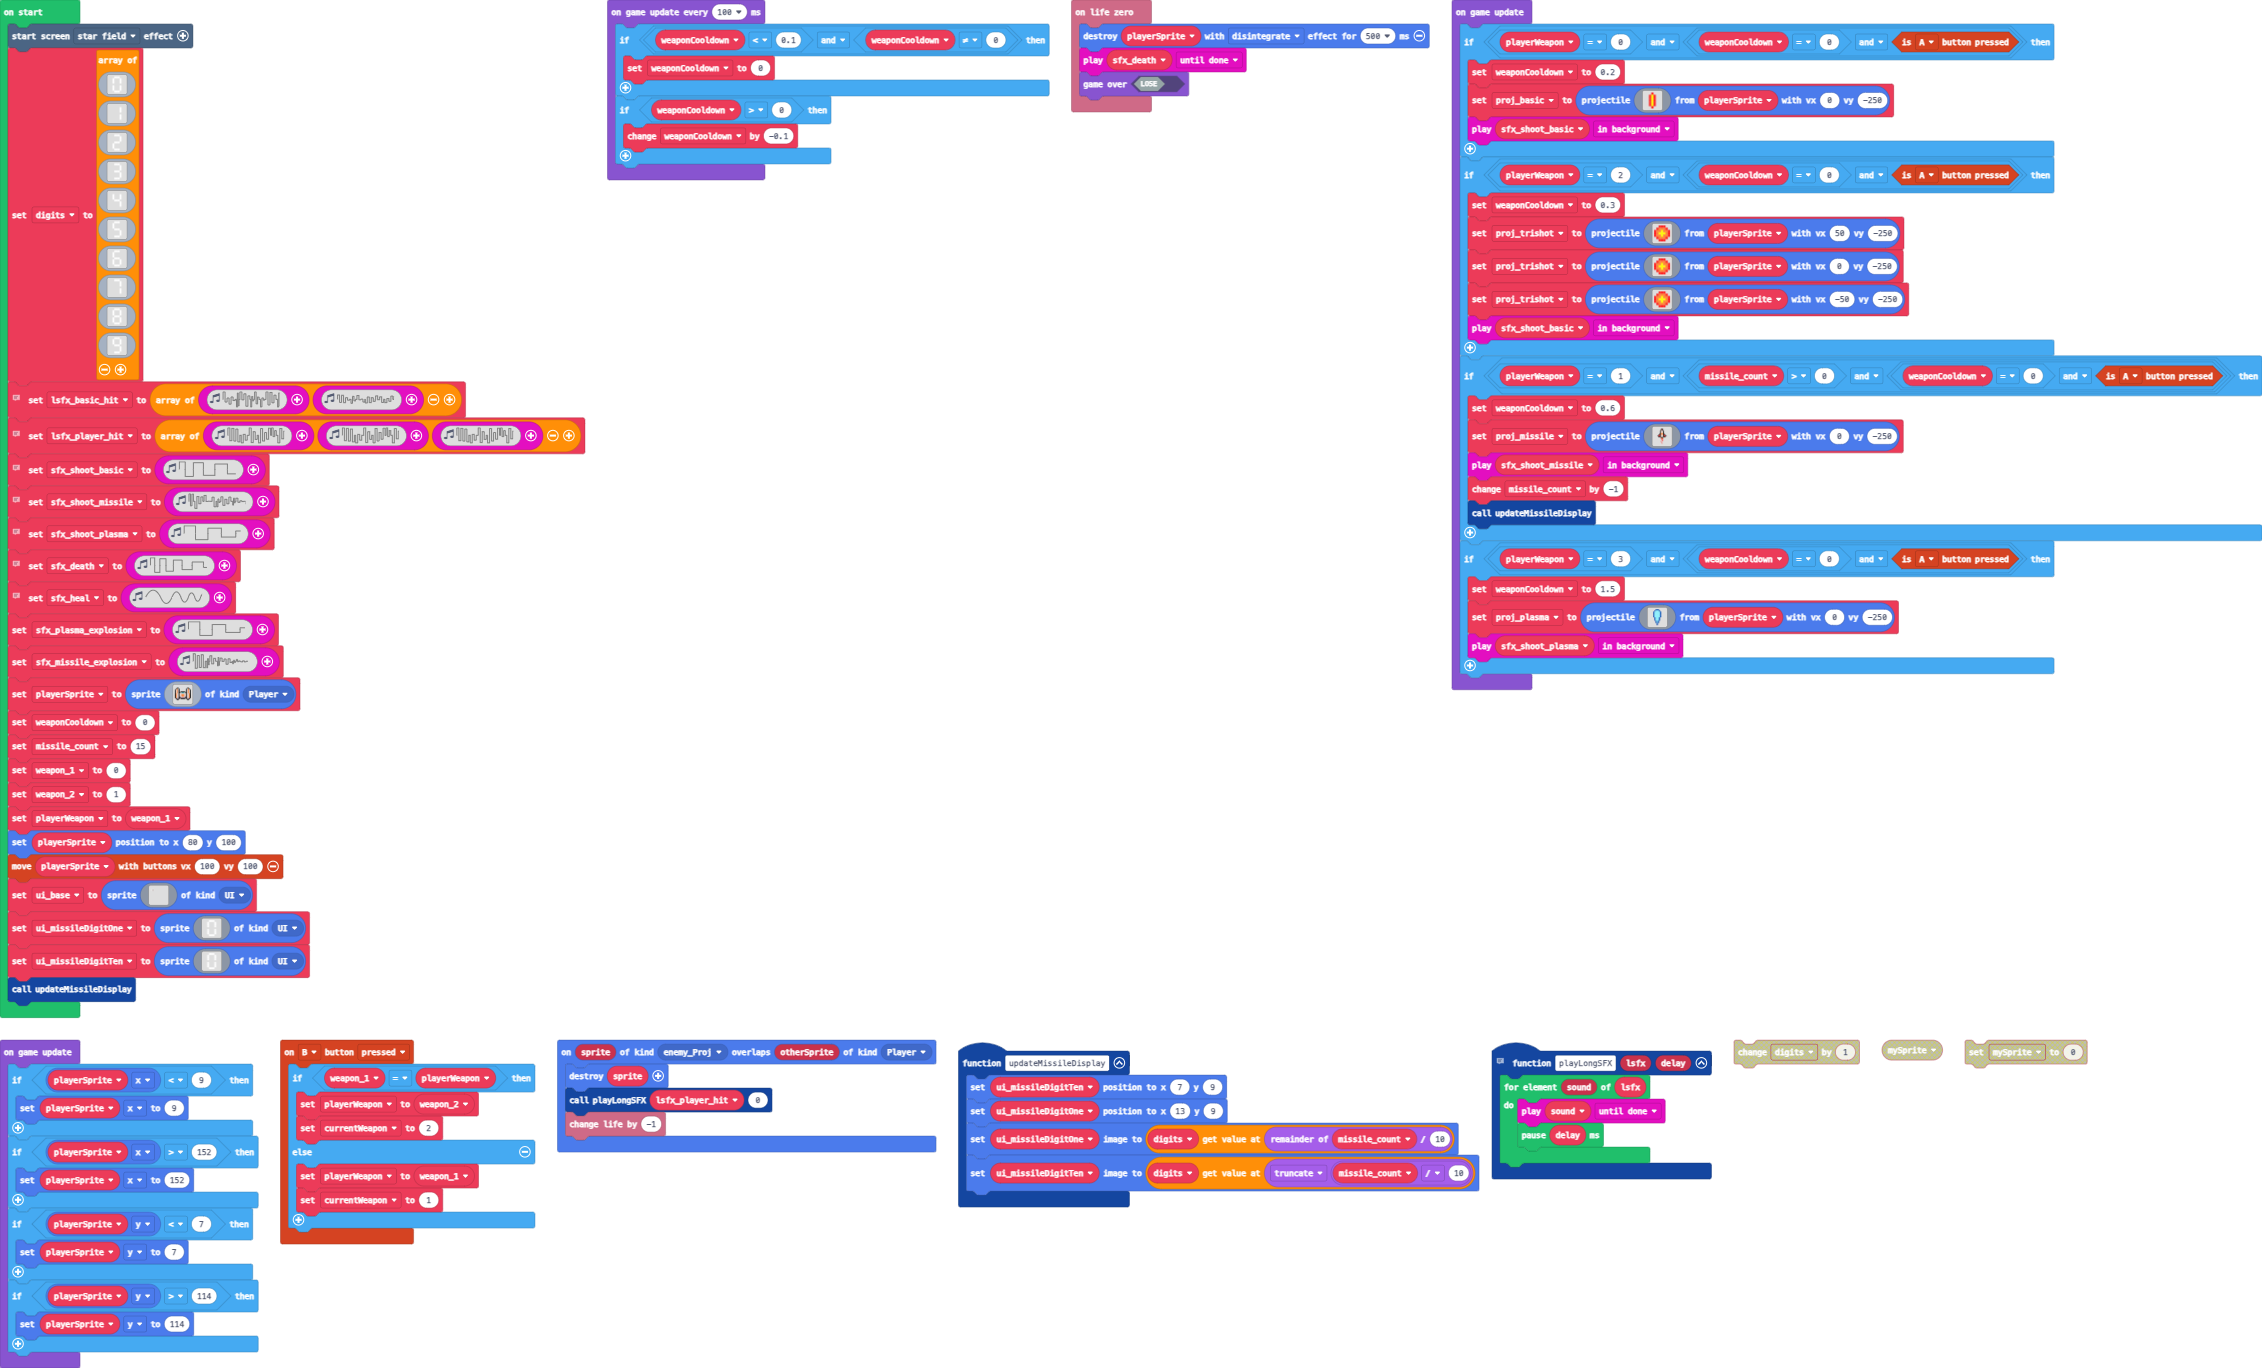
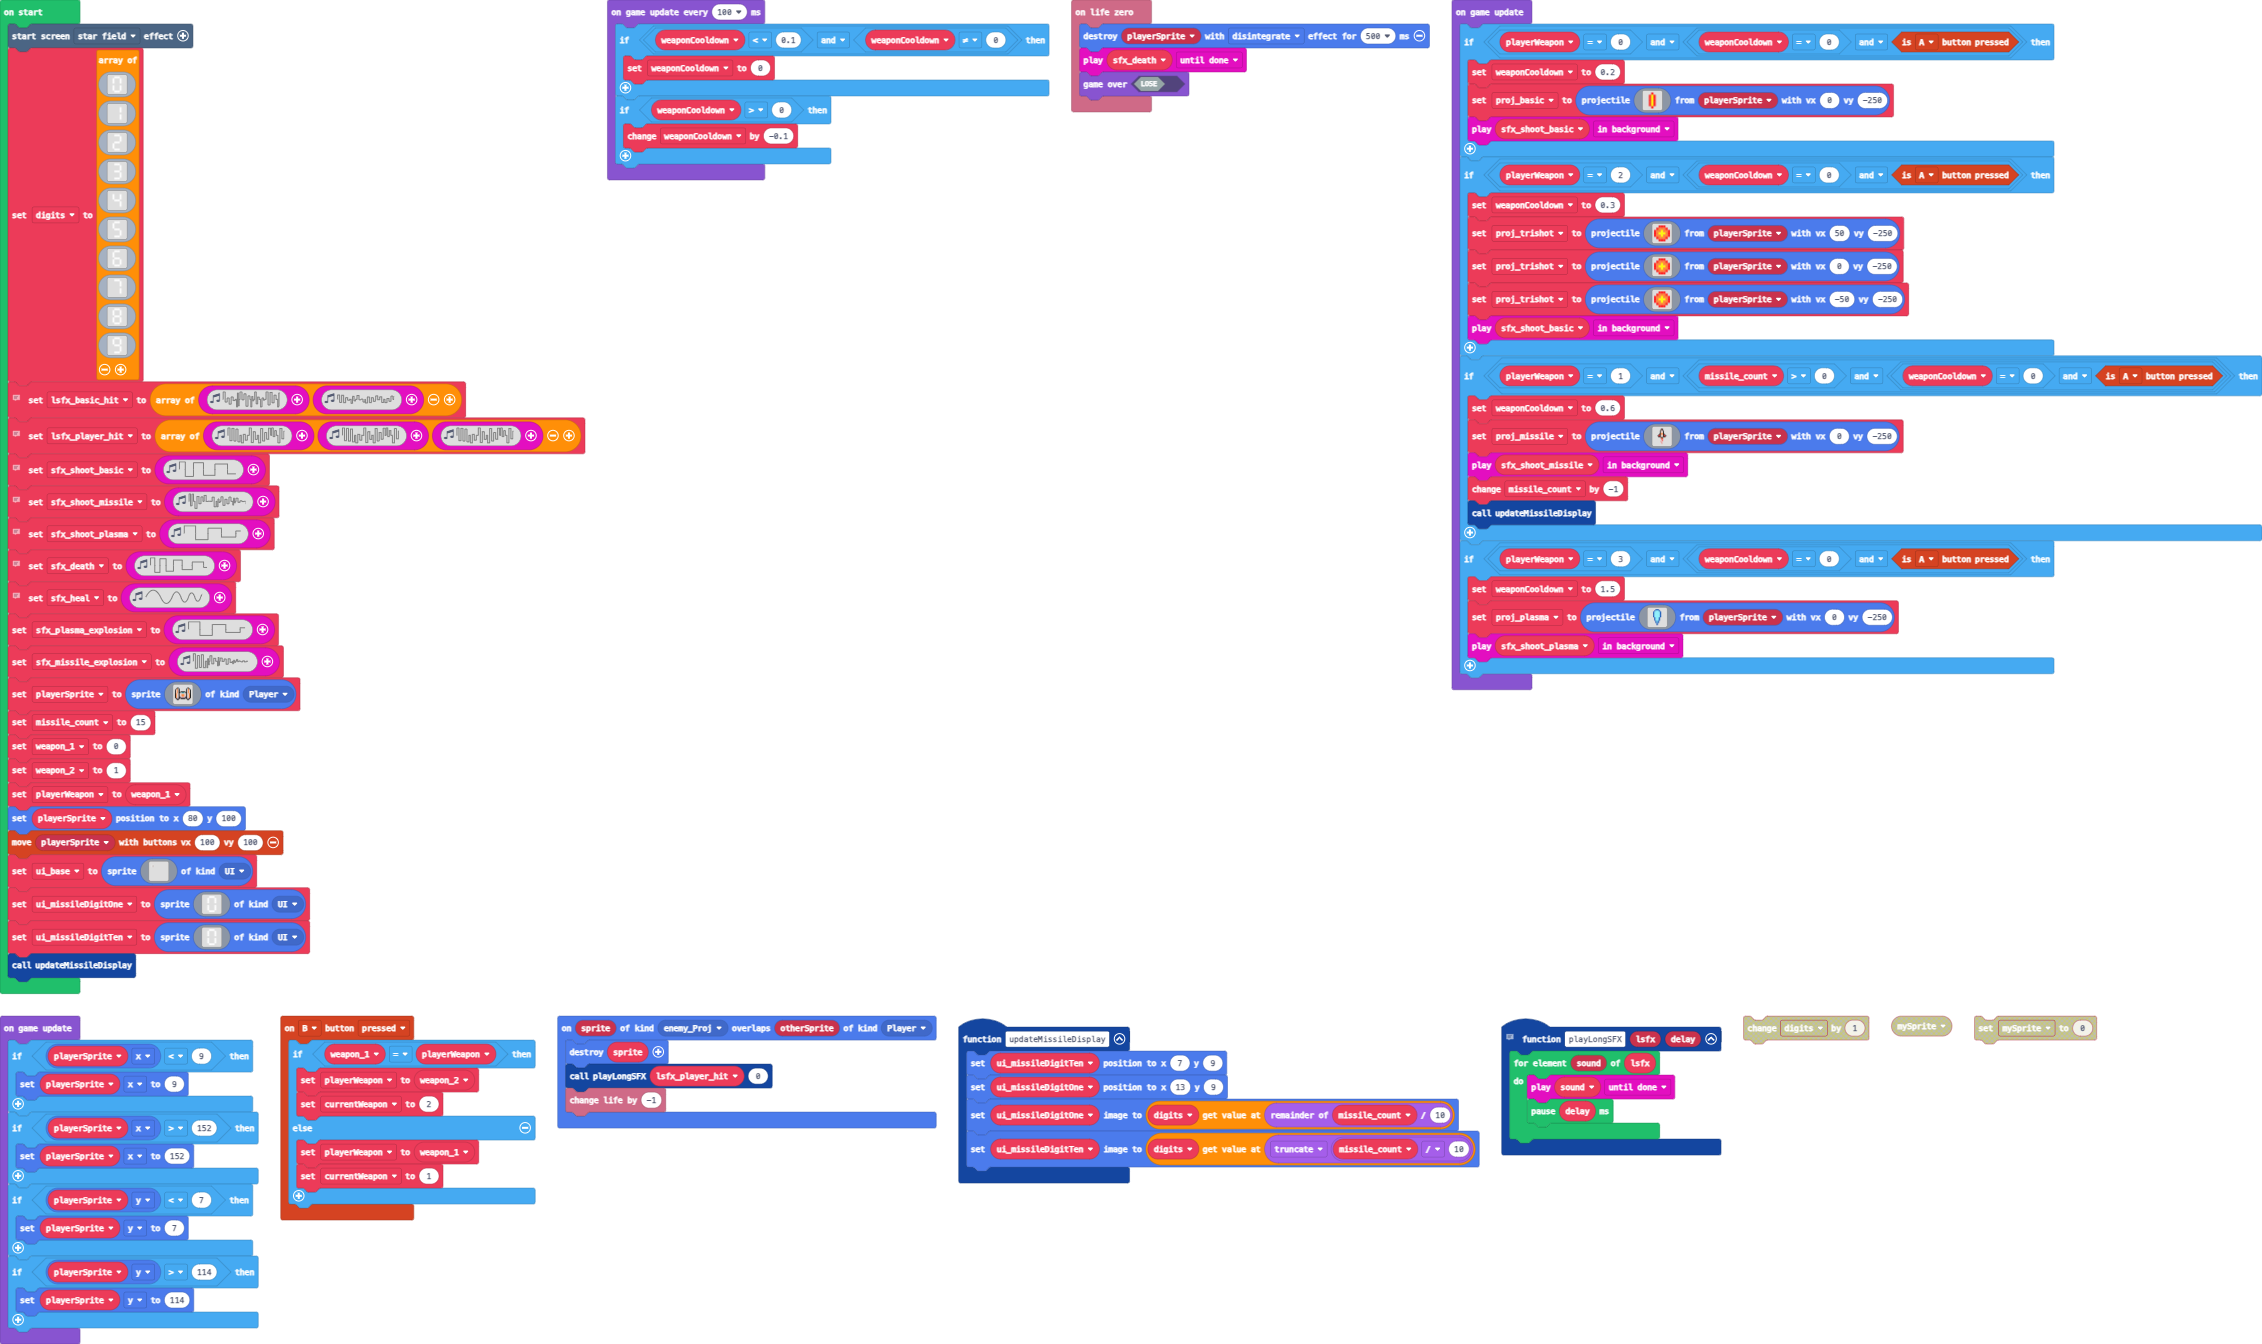
Update main.blocks, main.ts, main.py

diff --git a/main.ts b/main.ts
@@ -38,6 +38,7 @@ let proj_plasma: Sprite = null
 let proj_missile: Sprite = null
 let proj_trishot: Sprite = null
 let proj_basic: Sprite = null
+let weaponCooldown = 0
 let currentWeapon = 0
 let ui_missileDigitTen: Sprite = null
 let ui_missileDigitOne: Sprite = null
@@ -79,7 +80,6 @@ let sfx_heal = music.createSoundEffect(WaveShape.Sine, 1, 3812, 255, 113, 200, S
 let sfx_plasma_explosion = music.createSoundEffect(WaveShape.Square, 1463, 1, 255, 17, 500, SoundExpressionEffect.Warble, InterpolationCurve.Curve)
 let sfx_missile_explosion = music.createSoundEffect(WaveShape.Noise, 1538, 379, 255, 0, 250, SoundExpressionEffect.Tremolo, InterpolationCurve.Curve)
 playerSprite = sprites.create(assets.image`player_ship`, SpriteKind.Player)
-let weaponCooldown = 0
 missile_count = 15
 weapon_1 = 0
 weapon_2 = 1

diff --git a/main.py b/main.py
@@ -15,13 +15,8 @@ controller.B.on_event(ControllerButtonEvent.PRESSED, on_b_pressed)
 
 def on_on_overlap(sprite, otherSprite):
     sprites.destroy(sprite)
-    if info.life() < 0:
-        playLongSFX(lsfx_player_hit, 0)
-        info.change_life_by(-1)
-    else:
-        sprites.destroy(otherSprite, effects.disintegrate, 500)
-        music.play(sfx_death, music.PlaybackMode.UNTIL_DONE)
-        game.game_over(False)
+    playLongSFX(lsfx_player_hit, 0)
+    info.change_life_by(-1)
 sprites.on_overlap(SpriteKind.enemy_Proj, SpriteKind.player, on_on_overlap)
 
 # This function takes a long sound effect and plays it
@@ -29,17 +24,64 @@ def playLongSFX(lsfx: List[music.Playable], delay: number):
     for sound in lsfx:
         music.play(sound, music.PlaybackMode.UNTIL_DONE)
         pause(delay)
+
+def on_life_zero():
+    sprites.destroy(playerSprite, effects.disintegrate, 500)
+    music.play(sfx_death, music.PlaybackMode.UNTIL_DONE)
+    game.game_over(False)
+info.on_life_zero(on_life_zero)
+
+def updateMissileDisplay():
+    ui_missileDigitTen.set_position(7, 9)
+    ui_missileDigitOne.set_position(13, 9)
+    ui_missileDigitOne.set_image(digits[missile_count % 10])
+    ui_missileDigitTen.set_image(digits[int(missile_count / 10)])
 proj_plasma: Sprite = None
 proj_missile: Sprite = None
 proj_trishot: Sprite = None
 proj_basic: Sprite = None
 currentWeapon = 0
+ui_missileDigitTen: Sprite = None
+ui_missileDigitOne: Sprite = None
 playerWeapon = 0
 weapon_2 = 0
 weapon_1 = 0
+missile_count = 0
+playerSprite: Sprite = None
 sfx_death: music.SoundEffect = None
 lsfx_player_hit: List[music.SoundEffect] = []
+digits: List[Image] = []
 effects.star_field.start_screen_effect()
+digits = [assets.image("""
+        ui_digit_0
+    """),
+    assets.image("""
+        ui_digit_1
+    """),
+    assets.image("""
+        ui_digit_2
+    """),
+    assets.image("""
+        ui_digit_3
+    """),
+    assets.image("""
+        ui_digit_4
+    """),
+    assets.image("""
+        ui_digit_5
+    """),
+    assets.image("""
+        ui_digit_6
+    """),
+    assets.image("""
+        ui_digit_7
+    """),
+    assets.image("""
+        ui_digit_8
+    """),
+    assets.image("""
+        ui_digit_9
+    """)]
 # sound for weaker hits
 lsfx_basic_hit = [music.create_sound_effect(WaveShape.NOISE,
         3856,
@@ -147,8 +189,9 @@ playerSprite = sprites.create(assets.image("""
     player_ship
 """), SpriteKind.player)
 weaponCooldown = 0
+missile_count = 15
 weapon_1 = 0
-weapon_2 = 0
+weapon_2 = 1
 playerWeapon = weapon_1
 playerSprite.set_position(80, 100)
 controller.move_sprite(playerSprite, 100, 100)
@@ -161,41 +204,10 @@ ui_missileDigitOne = sprites.create(assets.image("""
 ui_missileDigitTen = sprites.create(assets.image("""
     ui_digit_0
 """), SpriteKind.UI)
-digits = [sprites.create(assets.image("""
-        ui_digit_0
-    """), SpriteKind.UI),
-    sprites.create(assets.image("""
-        ui_digit_1
-    """), SpriteKind.UI),
-    sprites.create(assets.image("""
-        ui_digit_2
-    """), SpriteKind.UI),
-    sprites.create(assets.image("""
-        ui_digit_3
-    """), SpriteKind.UI),
-    sprites.create(assets.image("""
-        ui_digit_4
-    """), SpriteKind.UI),
-    sprites.create(assets.image("""
-        ui_digit_5
-    """), SpriteKind.UI),
-    sprites.create(assets.image("""
-        ui_digit_6
-    """), SpriteKind.UI),
-    sprites.create(assets.image("""
-        ui_digit_7
-    """), SpriteKind.UI),
-    sprites.create(assets.image("""
-        ui_digit_8
-    """), SpriteKind.UI),
-    sprites.create(assets.image("""
-        ui_digit_9
-    """), SpriteKind.UI)]
-ui_missileDigitTen.set_position(7, 9)
-ui_missileDigitOne.set_position(13, 9)
+updateMissileDisplay()
 
 def on_on_update():
-    global weaponCooldown, proj_basic, proj_trishot, proj_missile, proj_plasma
+    global weaponCooldown, proj_basic, proj_trishot, proj_missile, missile_count, proj_plasma
     if playerWeapon == 0 and (weaponCooldown == 0 and controller.A.is_pressed()):
         weaponCooldown = 0.2
         proj_basic = sprites.create_projectile_from_sprite(assets.image("""
@@ -223,12 +235,14 @@ def on_on_update():
             -50,
             -250)
         music.play(sfx_shoot_basic, music.PlaybackMode.IN_BACKGROUND)
-    if playerWeapon == 1 and (weaponCooldown == 0 and controller.A.is_pressed()):
+    if playerWeapon == 1 and (missile_count > 0 and (weaponCooldown == 0 and controller.A.is_pressed())):
         weaponCooldown = 0.6
         proj_missile = sprites.create_projectile_from_sprite(assets.image("""
             myImage
         """), playerSprite, 0, -250)
         music.play(sfx_shoot_missile, music.PlaybackMode.IN_BACKGROUND)
+        missile_count += -1
+        updateMissileDisplay()
     if playerWeapon == 3 and (weaponCooldown == 0 and controller.A.is_pressed()):
         weaponCooldown = 1.5
         proj_plasma = sprites.create_projectile_from_sprite(assets.image("""
@@ -247,12 +261,6 @@ def on_on_update2():
     if playerSprite.y > 114:
         playerSprite.y = 114
 game.on_update(on_on_update2)
-
-def on_on_update3():
-    global ui_missileDigitOne
-    list2: List[Sprite] = []
-    ui_missileDigitOne = list2[0]
-game.on_update(on_on_update3)
 
 def on_update_interval():
     global weaponCooldown
